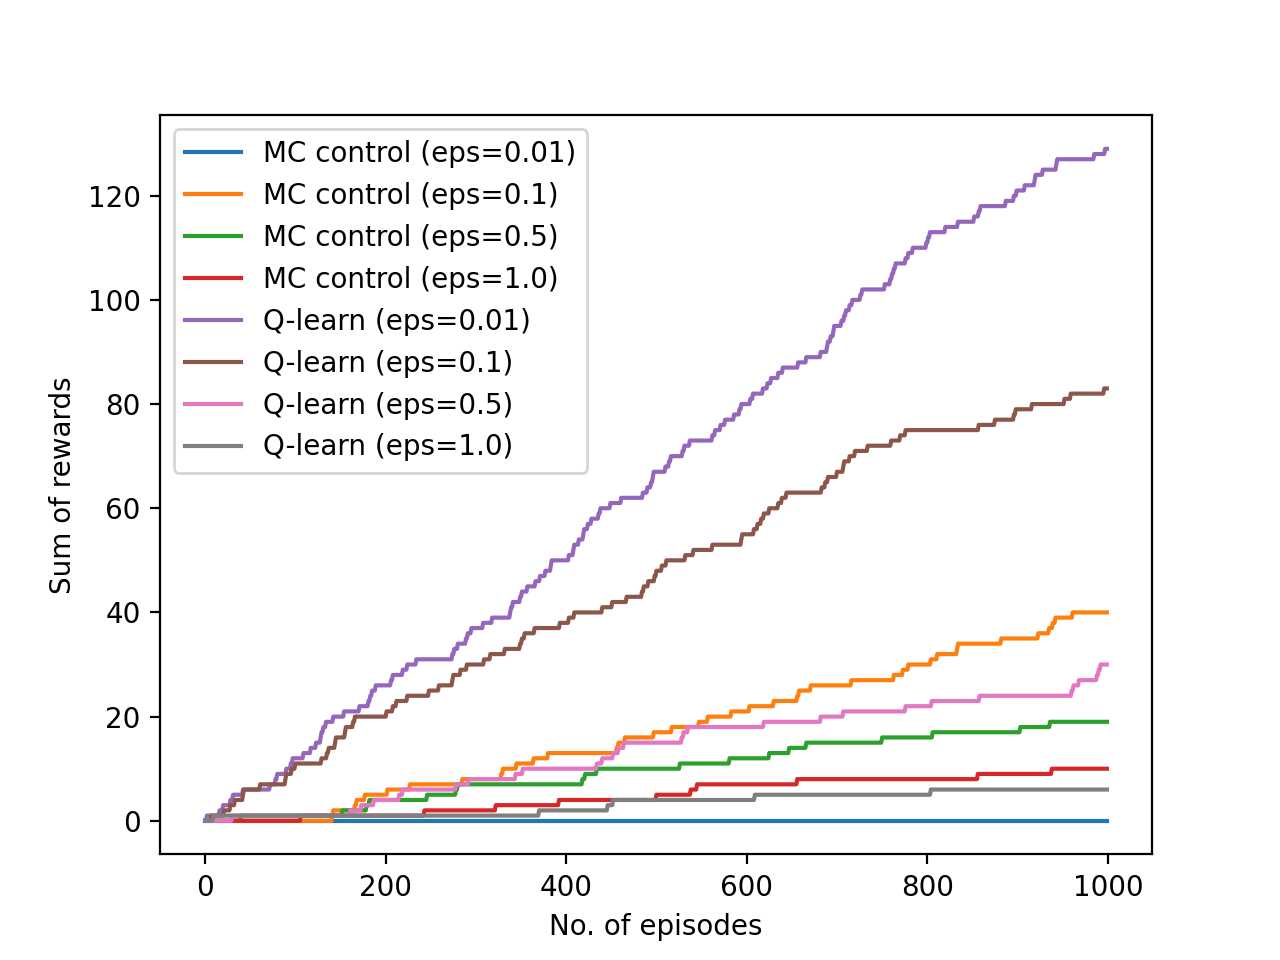
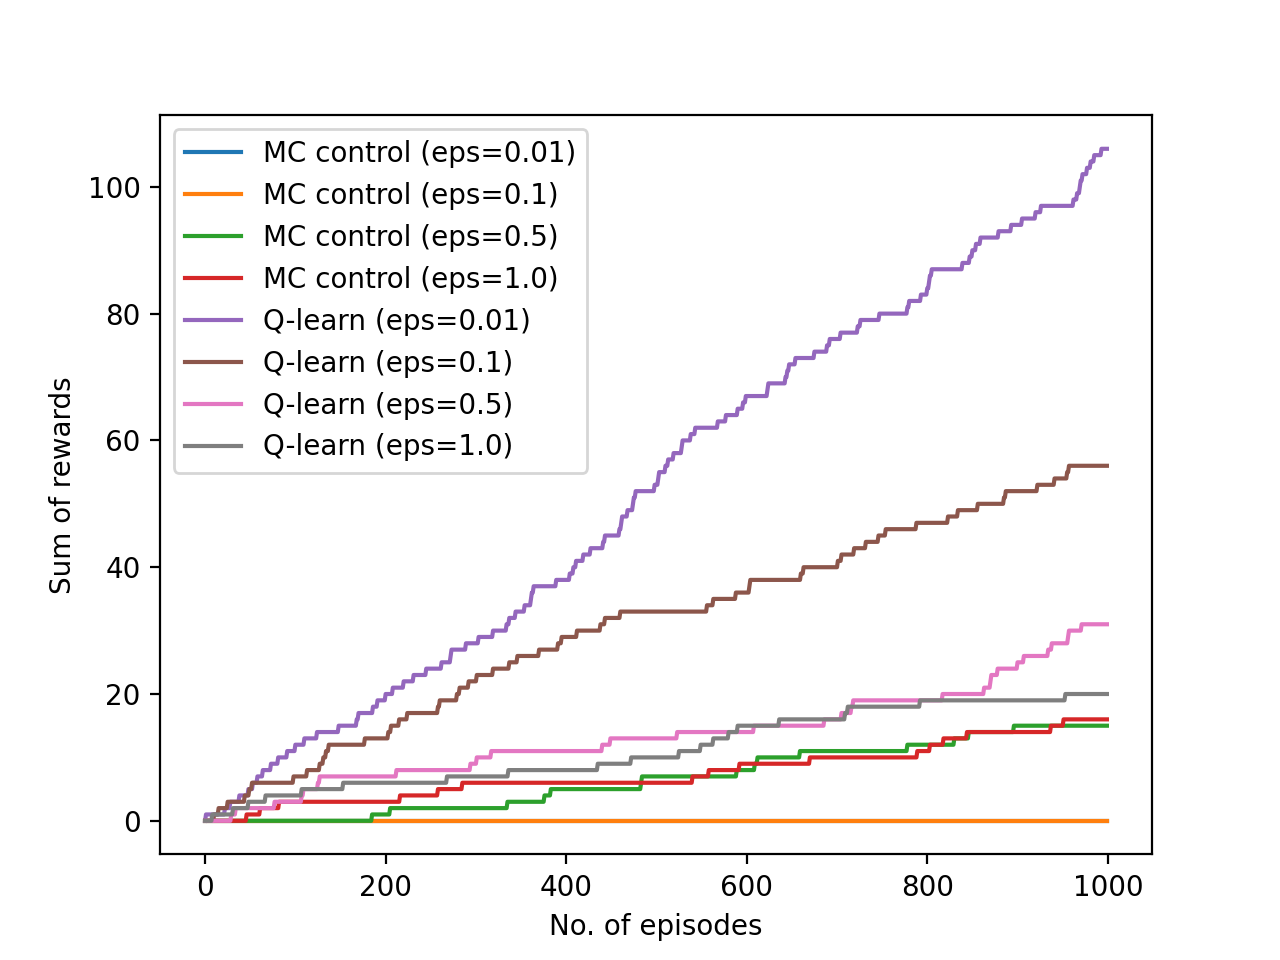
Update eps greedy function

diff --git a/3_FrozenLake_Control.py b/3_FrozenLake_Control.py
@@ -25,11 +25,9 @@ def play_episode(q, eps):
     s_a = []
 
     while not done:
-        action = (
-            lambda s: q[s, :].argmax()
-            if np.random.uniform() > eps
-            else np.random.choice([i for i in range(0, 4) if i != q[s, :].argmax()])
-        )(state)
+        action = (lambda s: q[s, :].argmax() if np.random.uniform() > eps else np.random.choice(list(range(0, 4))))(
+            state
+        )
 
         s_a.append((state, action))
         state, reward, done, _ = env.step(action)
